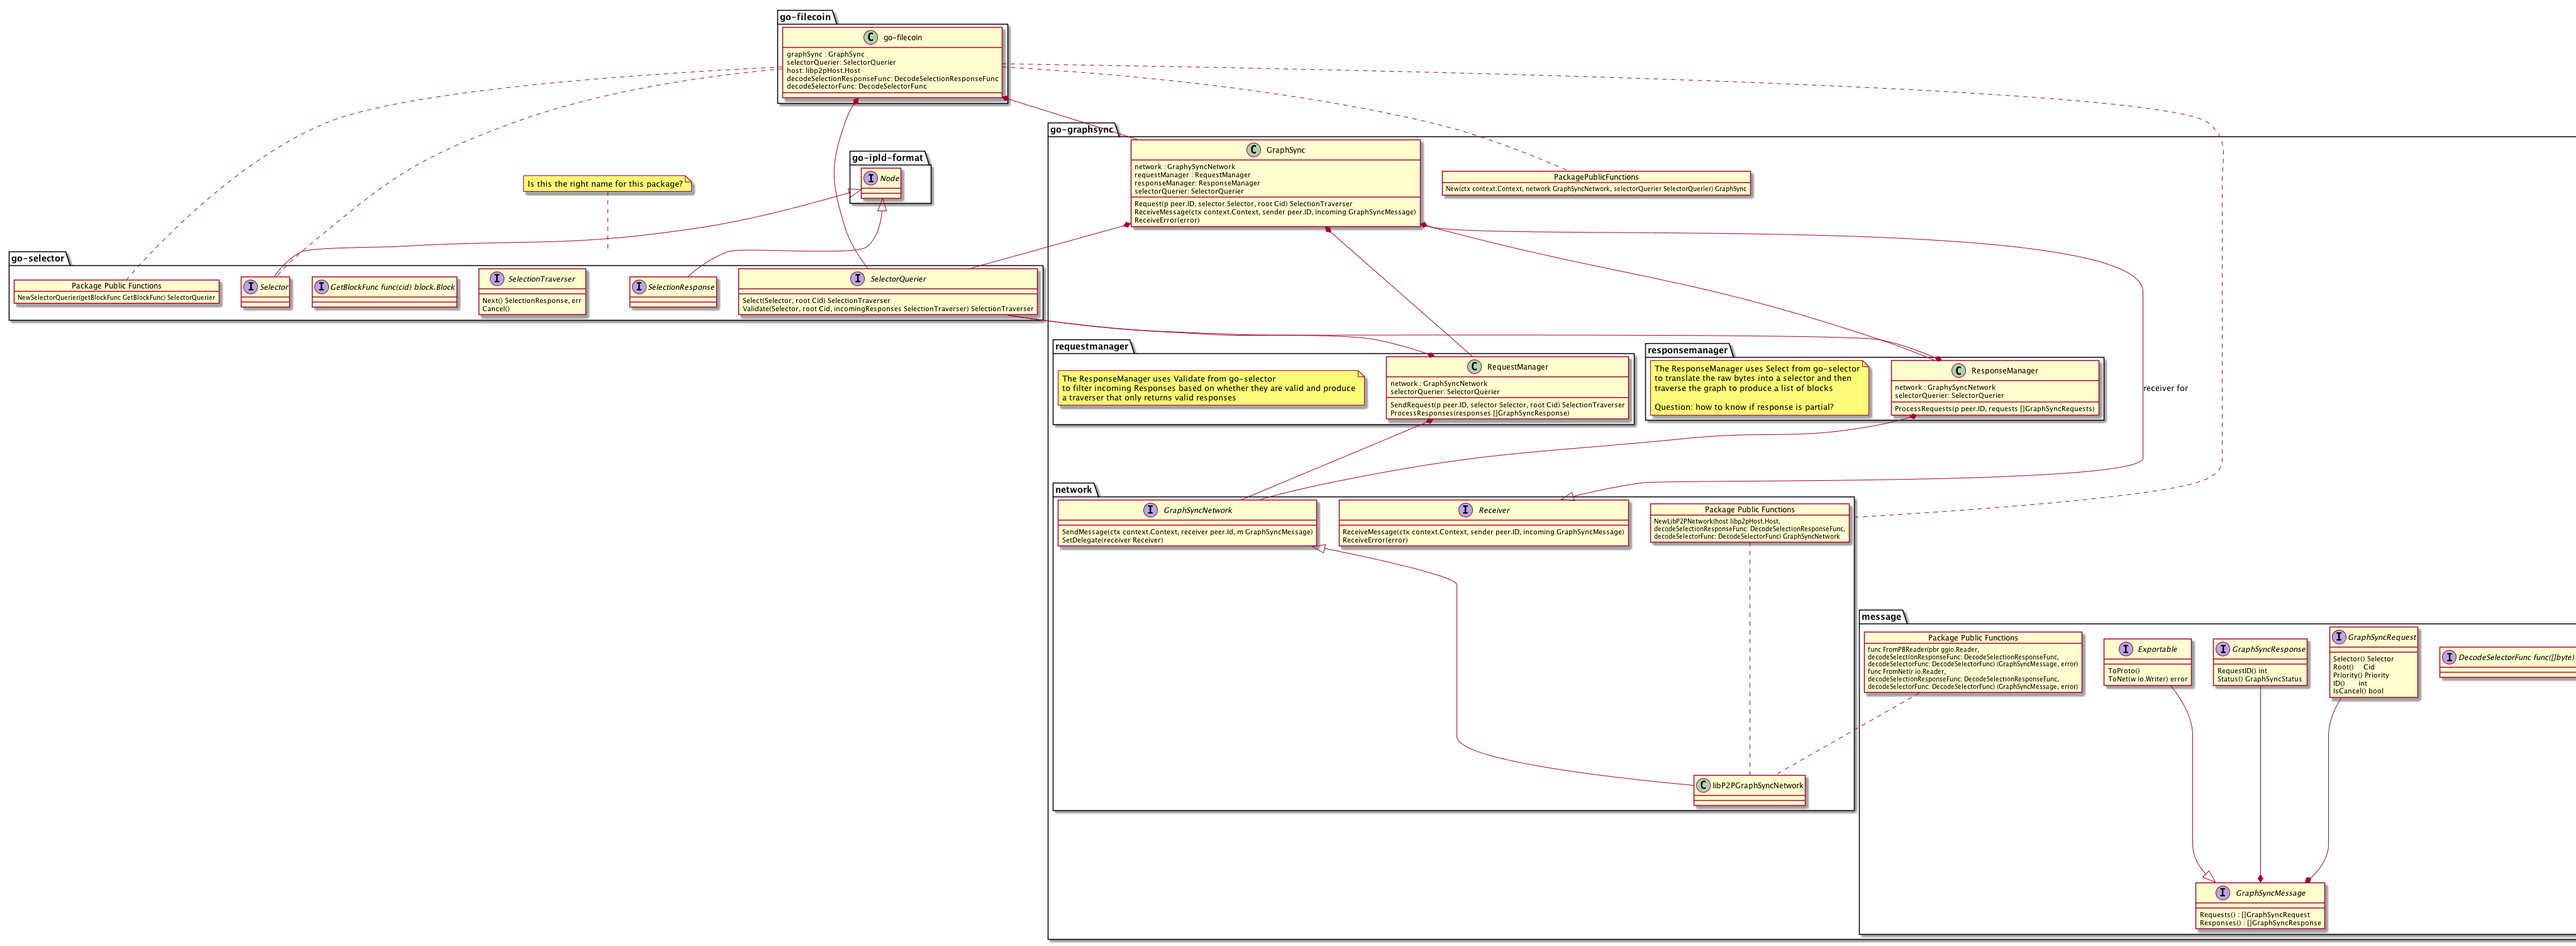
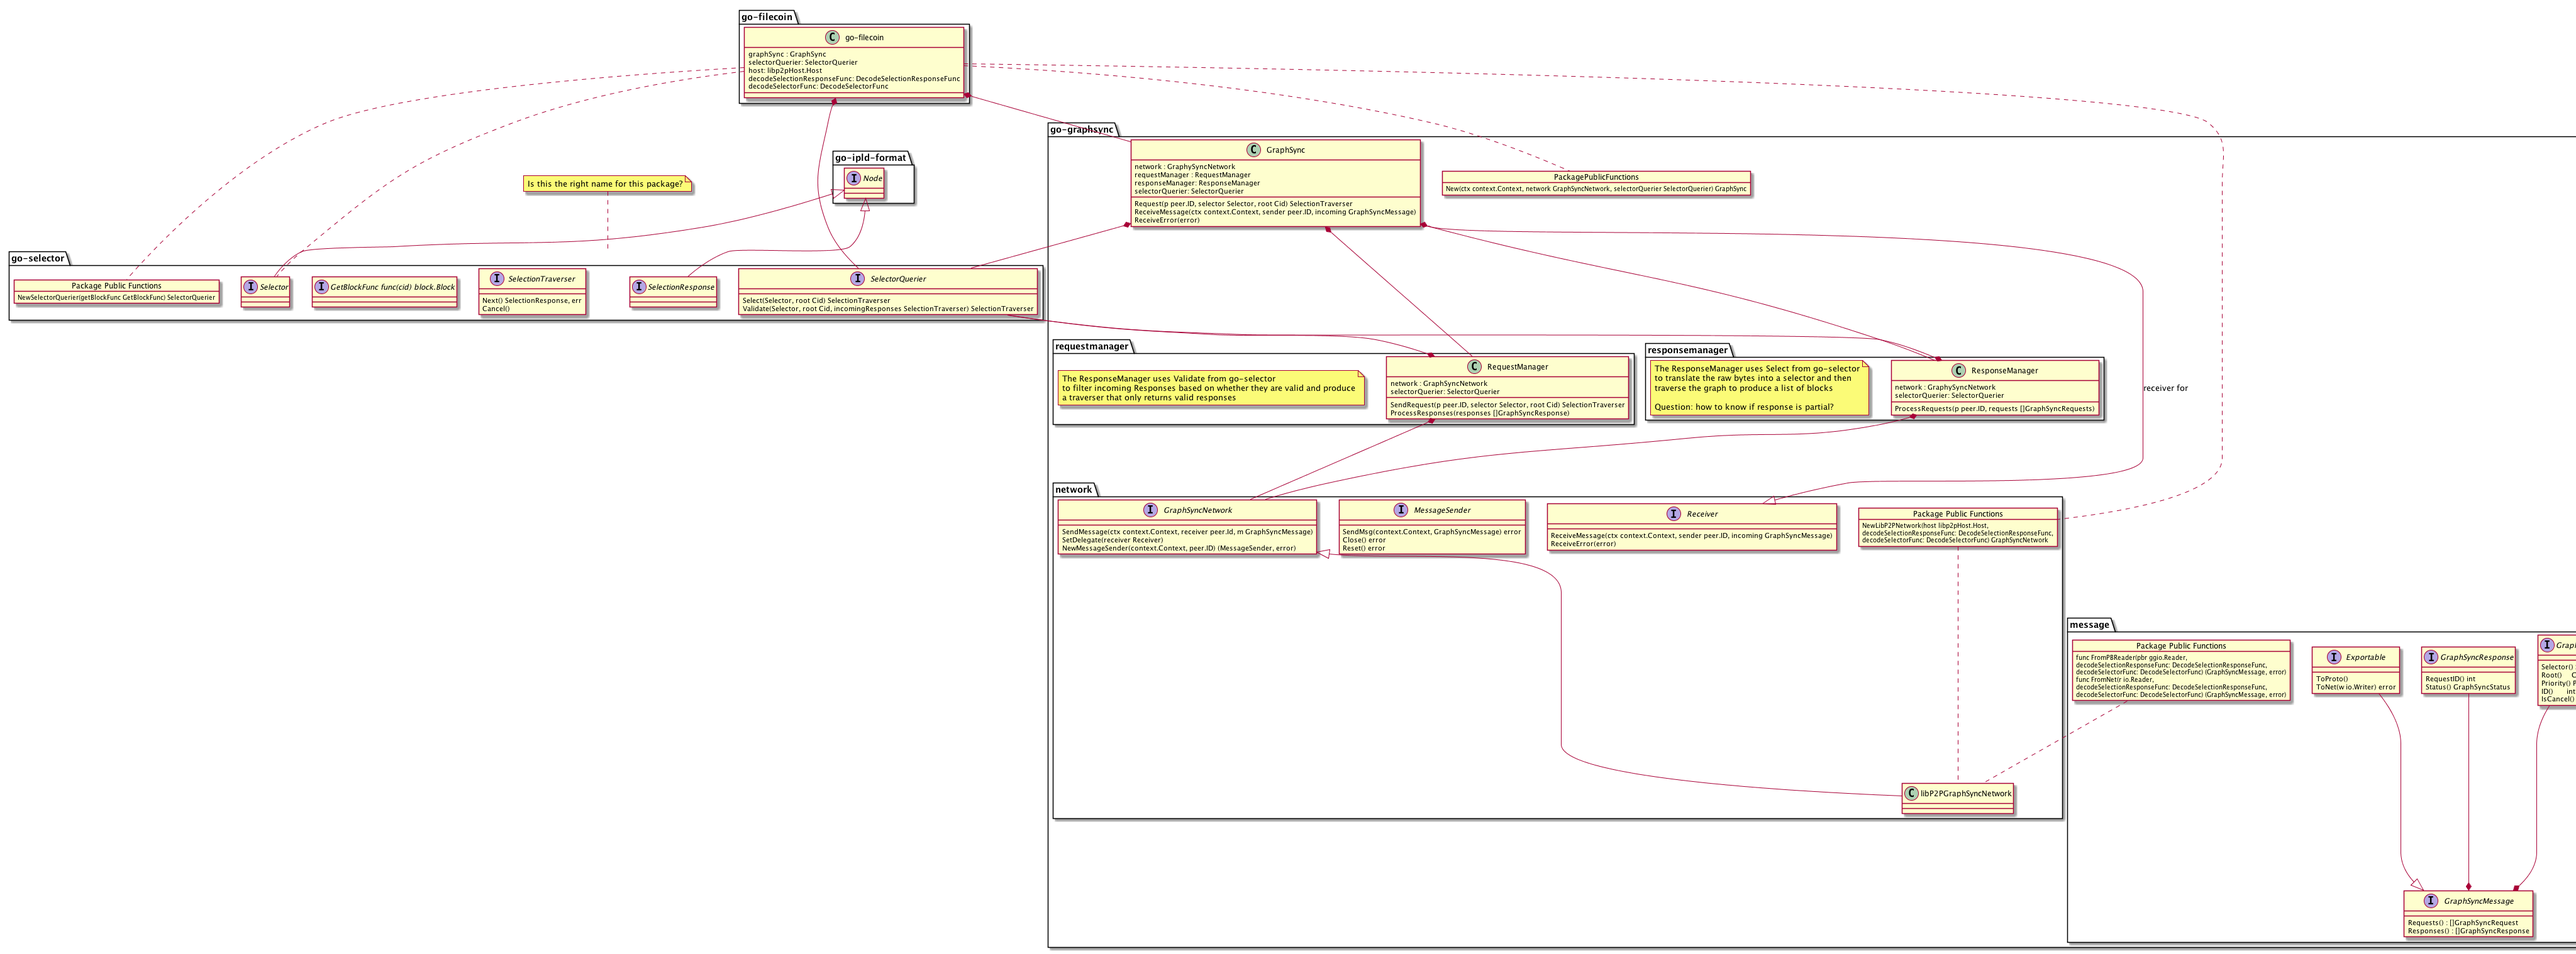
feat(network): first version of GraphSyncNetwork
setup GraphSyncNetwork interfaces and provide an implementation based on libp2p.host

fix #1

diff --git a/network/libp2p_impl.go b/network/libp2p_impl.go
@@ -1,0 +1,161 @@
+package network
+
+import (
+	"bufio"
+	"context"
+	"fmt"
+	"io"
+	"time"
+
+	gsmsg "github.com/ipfs/go-graphsync/message"
+
+	ggio "github.com/gogo/protobuf/io"
+	logging "github.com/ipfs/go-log"
+	host "github.com/libp2p/go-libp2p-host"
+	inet "github.com/libp2p/go-libp2p-net"
+	peer "github.com/libp2p/go-libp2p-peer"
+)
+
+var log = logging.Logger("graphsync_network")
+
+var sendMessageTimeout = time.Minute * 10
+
+// NewFromLibp2pHost returns a GraphSyncNetwork supported by underlying Libp2p host.
+func NewFromLibp2pHost(host host.Host,
+	decodeSelectorFunc gsmsg.DecodeSelectorFunc,
+	decodeSelectionResponseFunc gsmsg.DecodeSelectionResponseFunc) GraphSyncNetwork {
+	graphSyncNetwork := libp2pGraphSyncNetwork{
+		host:                        host,
+		decodeSelectorFunc:          decodeSelectorFunc,
+		decodeSelectionResponseFunc: decodeSelectionResponseFunc,
+	}
+	host.SetStreamHandler(ProtocolGraphsync, graphSyncNetwork.handleNewStream)
+
+	return &graphSyncNetwork
+}
+
+// libp2pGraphSyncNetwork transforms the libp2p host interface, which sends and receives
+// NetMessage objects, into the graphsync network interface.
+type libp2pGraphSyncNetwork struct {
+	host                        host.Host
+	decodeSelectionResponseFunc gsmsg.DecodeSelectionResponseFunc
+	decodeSelectorFunc          gsmsg.DecodeSelectorFunc
+	// inbound messages from the network are forwarded to the receiver
+	receiver Receiver
+}
+
+type streamMessageSender struct {
+	s inet.Stream
+}
+
+func (s *streamMessageSender) Close() error {
+	return inet.FullClose(s.s)
+}
+
+func (s *streamMessageSender) Reset() error {
+	return s.s.Reset()
+}
+
+func (s *streamMessageSender) SendMsg(ctx context.Context, msg gsmsg.GraphSyncMessage) error {
+	return msgToStream(ctx, s.s, msg)
+}
+
+func msgToStream(ctx context.Context, s inet.Stream, msg gsmsg.GraphSyncMessage) error {
+	deadline := time.Now().Add(sendMessageTimeout)
+	if dl, ok := ctx.Deadline(); ok {
+		deadline = dl
+	}
+	if err := s.SetWriteDeadline(deadline); err != nil {
+		log.Warningf("error setting deadline: %s", err)
+	}
+
+	w := bufio.NewWriter(s)
+
+	switch s.Protocol() {
+	case ProtocolGraphsync:
+		if err := msg.ToNet(w); err != nil {
+			log.Debugf("error: %s", err)
+			return err
+		}
+	default:
+		return fmt.Errorf("unrecognized protocol on remote: %s", s.Protocol())
+	}
+
+	if err := w.Flush(); err != nil {
+		log.Debugf("error: %s", err)
+		return err
+	}
+
+	if err := s.SetWriteDeadline(time.Time{}); err != nil {
+		log.Warningf("error resetting deadline: %s", err)
+	}
+	return nil
+}
+
+func (gsnet *libp2pGraphSyncNetwork) NewMessageSender(ctx context.Context, p peer.ID) (MessageSender, error) {
+	s, err := gsnet.newStreamToPeer(ctx, p)
+	if err != nil {
+		return nil, err
+	}
+
+	return &streamMessageSender{s: s}, nil
+}
+
+func (gsnet *libp2pGraphSyncNetwork) newStreamToPeer(ctx context.Context, p peer.ID) (inet.Stream, error) {
+	return gsnet.host.NewStream(ctx, p, ProtocolGraphsync)
+}
+
+func (gsnet *libp2pGraphSyncNetwork) SendMessage(
+	ctx context.Context,
+	p peer.ID,
+	outgoing gsmsg.GraphSyncMessage) error {
+
+	s, err := gsnet.newStreamToPeer(ctx, p)
+	if err != nil {
+		return err
+	}
+
+	if err = msgToStream(ctx, s, outgoing); err != nil {
+		s.Reset()
+		return err
+	}
+
+	// TODO(https://github.com/libp2p/go-libp2p-net/issues/28): Avoid this goroutine.
+	go inet.AwaitEOF(s)
+	return s.Close()
+
+}
+
+func (gsnet *libp2pGraphSyncNetwork) SetDelegate(r Receiver) {
+	gsnet.receiver = r
+}
+
+// handleNewStream receives a new stream from the network.
+func (gsnet *libp2pGraphSyncNetwork) handleNewStream(s inet.Stream) {
+	defer s.Close()
+
+	if gsnet.receiver == nil {
+		s.Reset()
+		return
+	}
+
+	reader := ggio.NewDelimitedReader(s, inet.MessageSizeMax)
+	for {
+		received, err := gsmsg.FromPBReader(reader,
+			gsnet.decodeSelectorFunc,
+			gsnet.decodeSelectionResponseFunc)
+		if err != nil {
+			if err != io.EOF {
+				s.Reset()
+				go gsnet.receiver.ReceiveError(err)
+				log.Debugf("graphsync net handleNewStream from %s error: %s", s.Conn().RemotePeer(), err)
+			}
+			return
+		}
+
+		p := s.Conn().RemotePeer()
+		ctx := context.Background()
+		log.Debugf("graphsync net handleNewStream from %s", s.Conn().RemotePeer())
+		gsnet.receiver.ReceiveMessage(ctx, p, received)
+	}
+}

diff --git a/network/libp2p_impl_test.go b/network/libp2p_impl_test.go
@@ -1,0 +1,132 @@
+package network
+
+import (
+	"context"
+	"math/rand"
+	"reflect"
+	"testing"
+	"time"
+
+	gsmsg "github.com/ipfs/go-graphsync/message"
+	"github.com/ipfs/go-graphsync/testselector"
+	"github.com/libp2p/go-libp2p-peer"
+	mocknet "github.com/libp2p/go-libp2p/p2p/net/mock"
+)
+
+// Receiver is an interface for receiving messages from the GraphSyncNetwork.
+type receiver struct {
+	messageReceived chan struct{}
+	lastMessage     gsmsg.GraphSyncMessage
+	lastSender      peer.ID
+}
+
+func (r *receiver) ReceiveMessage(
+	ctx context.Context,
+	sender peer.ID,
+	incoming gsmsg.GraphSyncMessage) {
+	r.lastSender = sender
+	r.lastMessage = incoming
+	select {
+	case <-ctx.Done():
+	case r.messageReceived <- struct{}{}:
+	}
+}
+
+func (r *receiver) ReceiveError(err error) {
+}
+
+func TestMessageSendAndReceive(t *testing.T) {
+	// create network
+	ctx := context.Background()
+	ctx, cancel := context.WithTimeout(ctx, 10*time.Second)
+	defer cancel()
+	mn := mocknet.New(ctx)
+
+	host1, err := mn.GenPeer()
+	if err != nil {
+		t.Fatal("error generating host")
+	}
+	host2, err := mn.GenPeer()
+	if err != nil {
+		t.Fatal("error generating host")
+	}
+	err = mn.LinkAll()
+	if err != nil {
+		t.Fatal("error linking hosts")
+	}
+	_, err = mn.ConnectPeers(host1.ID(), host2.ID())
+	if err != nil {
+		t.Fatal("error linking peers")
+	}
+	gsnet1 := NewFromLibp2pHost(host1,
+		testselector.MockDecodeSelectorFunc,
+		testselector.MockDecodeSelectionResponseFunc)
+	gsnet2 := NewFromLibp2pHost(host2,
+		testselector.MockDecodeSelectorFunc,
+		testselector.MockDecodeSelectionResponseFunc)
+	r := &receiver{
+		messageReceived: make(chan struct{}),
+	}
+	gsnet1.SetDelegate(r)
+	gsnet2.SetDelegate(r)
+
+	selector := testselector.GenerateSelector()
+	root := testselector.GenerateRootCid()
+	selectionResponse := testselector.GenerateSelectionResponse()
+	id := gsmsg.GraphSyncRequestID(rand.Int31())
+	priority := gsmsg.GraphSyncPriority(rand.Int31())
+	status := gsmsg.RequestAcknowledged
+
+	sent := gsmsg.New()
+	sent.AddRequest(id, selector, root, priority)
+	sent.AddResponse(id, status, selectionResponse)
+
+	gsnet1.SendMessage(ctx, host2.ID(), sent)
+
+	select {
+	case <-ctx.Done():
+		t.Fatal("did not receive message sent")
+	case <-r.messageReceived:
+	}
+
+	sender := r.lastSender
+	if sender != host1.ID() {
+		t.Fatal("received message from wrong node")
+	}
+
+	received := r.lastMessage
+
+	sentRequests := sent.Requests()
+	if len(sentRequests) != 1 {
+		t.Fatal("Did not add request to sent message")
+	}
+	sentRequest := sentRequests[0]
+	receivedRequests := received.Requests()
+	if len(receivedRequests) != 1 {
+		t.Fatal("Did not add request to received message")
+	}
+	receivedRequest := receivedRequests[0]
+	if receivedRequest.ID() != sentRequest.ID() ||
+		receivedRequest.IsCancel() != sentRequest.IsCancel() ||
+		receivedRequest.Priority() != sentRequest.Priority() ||
+		!reflect.DeepEqual(receivedRequest.Root(), sentRequest.Root()) ||
+		!reflect.DeepEqual(receivedRequest.Selector(), sentRequest.Selector()) {
+		t.Fatal("Sent message requests did not match received message requests")
+	}
+
+	sentResponses := sent.Responses()
+	if len(sentResponses) != 1 {
+		t.Fatal("Did not add response to sent message")
+	}
+	sentResponse := sentResponses[0]
+	receivedResponses := received.Responses()
+	if len(receivedResponses) != 1 {
+		t.Fatal("Did not add response to received message")
+	}
+	receivedResponse := receivedResponses[0]
+	if receivedResponse.RequestID() != sentResponse.RequestID() ||
+		receivedResponse.Status() != sentResponse.Status() ||
+		!reflect.DeepEqual(receivedResponse.Response(), sentResponse.Response()) {
+		t.Fatal("Sent message responses did not match received message responses")
+	}
+}

diff --git a/network/interface.go b/network/interface.go
@@ -1,0 +1,48 @@
+package network
+
+import (
+	"context"
+
+	gsmsg "github.com/ipfs/go-graphsync/message"
+
+	peer "github.com/libp2p/go-libp2p-peer"
+	protocol "github.com/libp2p/go-libp2p-protocol"
+)
+
+var (
+	// ProtocolGraphsync is the protocol identifier for graphsync messages
+	ProtocolGraphsync protocol.ID = "/ipfs/graphsync/1.0.0"
+)
+
+// GraphSyncNetwork provides network connectivity for GraphSync.
+type GraphSyncNetwork interface {
+
+	// SendMessage sends a GraphSync message to a peer.
+	SendMessage(
+		context.Context,
+		peer.ID,
+		gsmsg.GraphSyncMessage) error
+
+	// SetDelegate registers the Reciver to handle messages received from the
+	// network.
+	SetDelegate(Receiver)
+
+	NewMessageSender(context.Context, peer.ID) (MessageSender, error)
+}
+
+// MessageSender is an interface to send messages to a peer
+type MessageSender interface {
+	SendMsg(context.Context, gsmsg.GraphSyncMessage) error
+	Close() error
+	Reset() error
+}
+
+// Receiver is an interface for receiving messages from the GraphSyncNetwork.
+type Receiver interface {
+	ReceiveMessage(
+		ctx context.Context,
+		sender peer.ID,
+		incoming gsmsg.GraphSyncMessage)
+
+	ReceiveError(error)
+}
